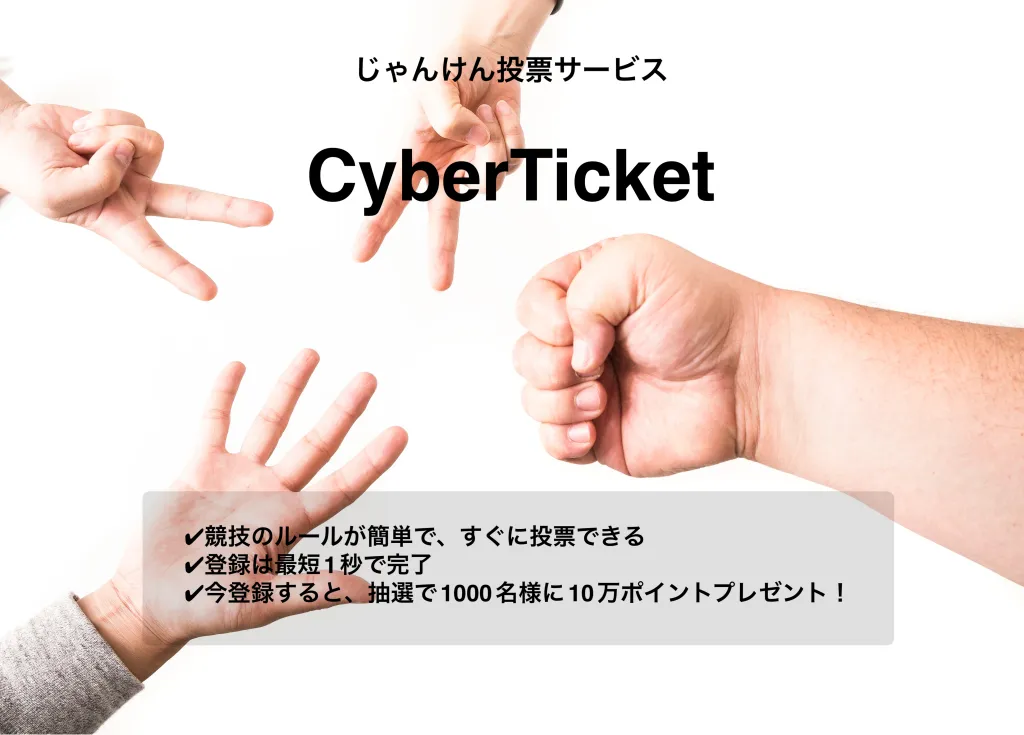
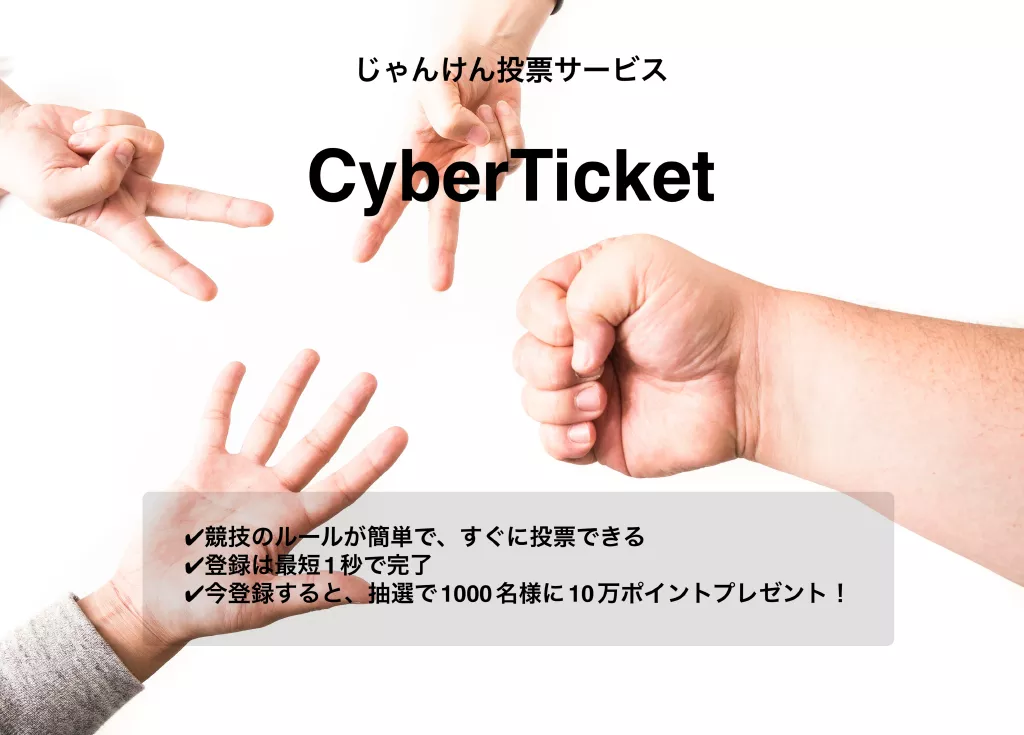
mod hero

diff --git a/src/client/foundation/pages/Top/internal/HeroImage/HeroImage.jsx b/src/client/foundation/pages/Top/internal/HeroImage/HeroImage.jsx
@@ -14,5 +14,5 @@ const Image = styled.img`
 
 /** @type {React.VFC<Props>} */
 export const HeroImage = ({ url }) => {
-  return <Image alt="" src={url} width="1024" height="735"  />;
+  return <Image alt="" src={url} width="1024" height="735" style={{width: '100%', height: 'auto'}} />;
 };
